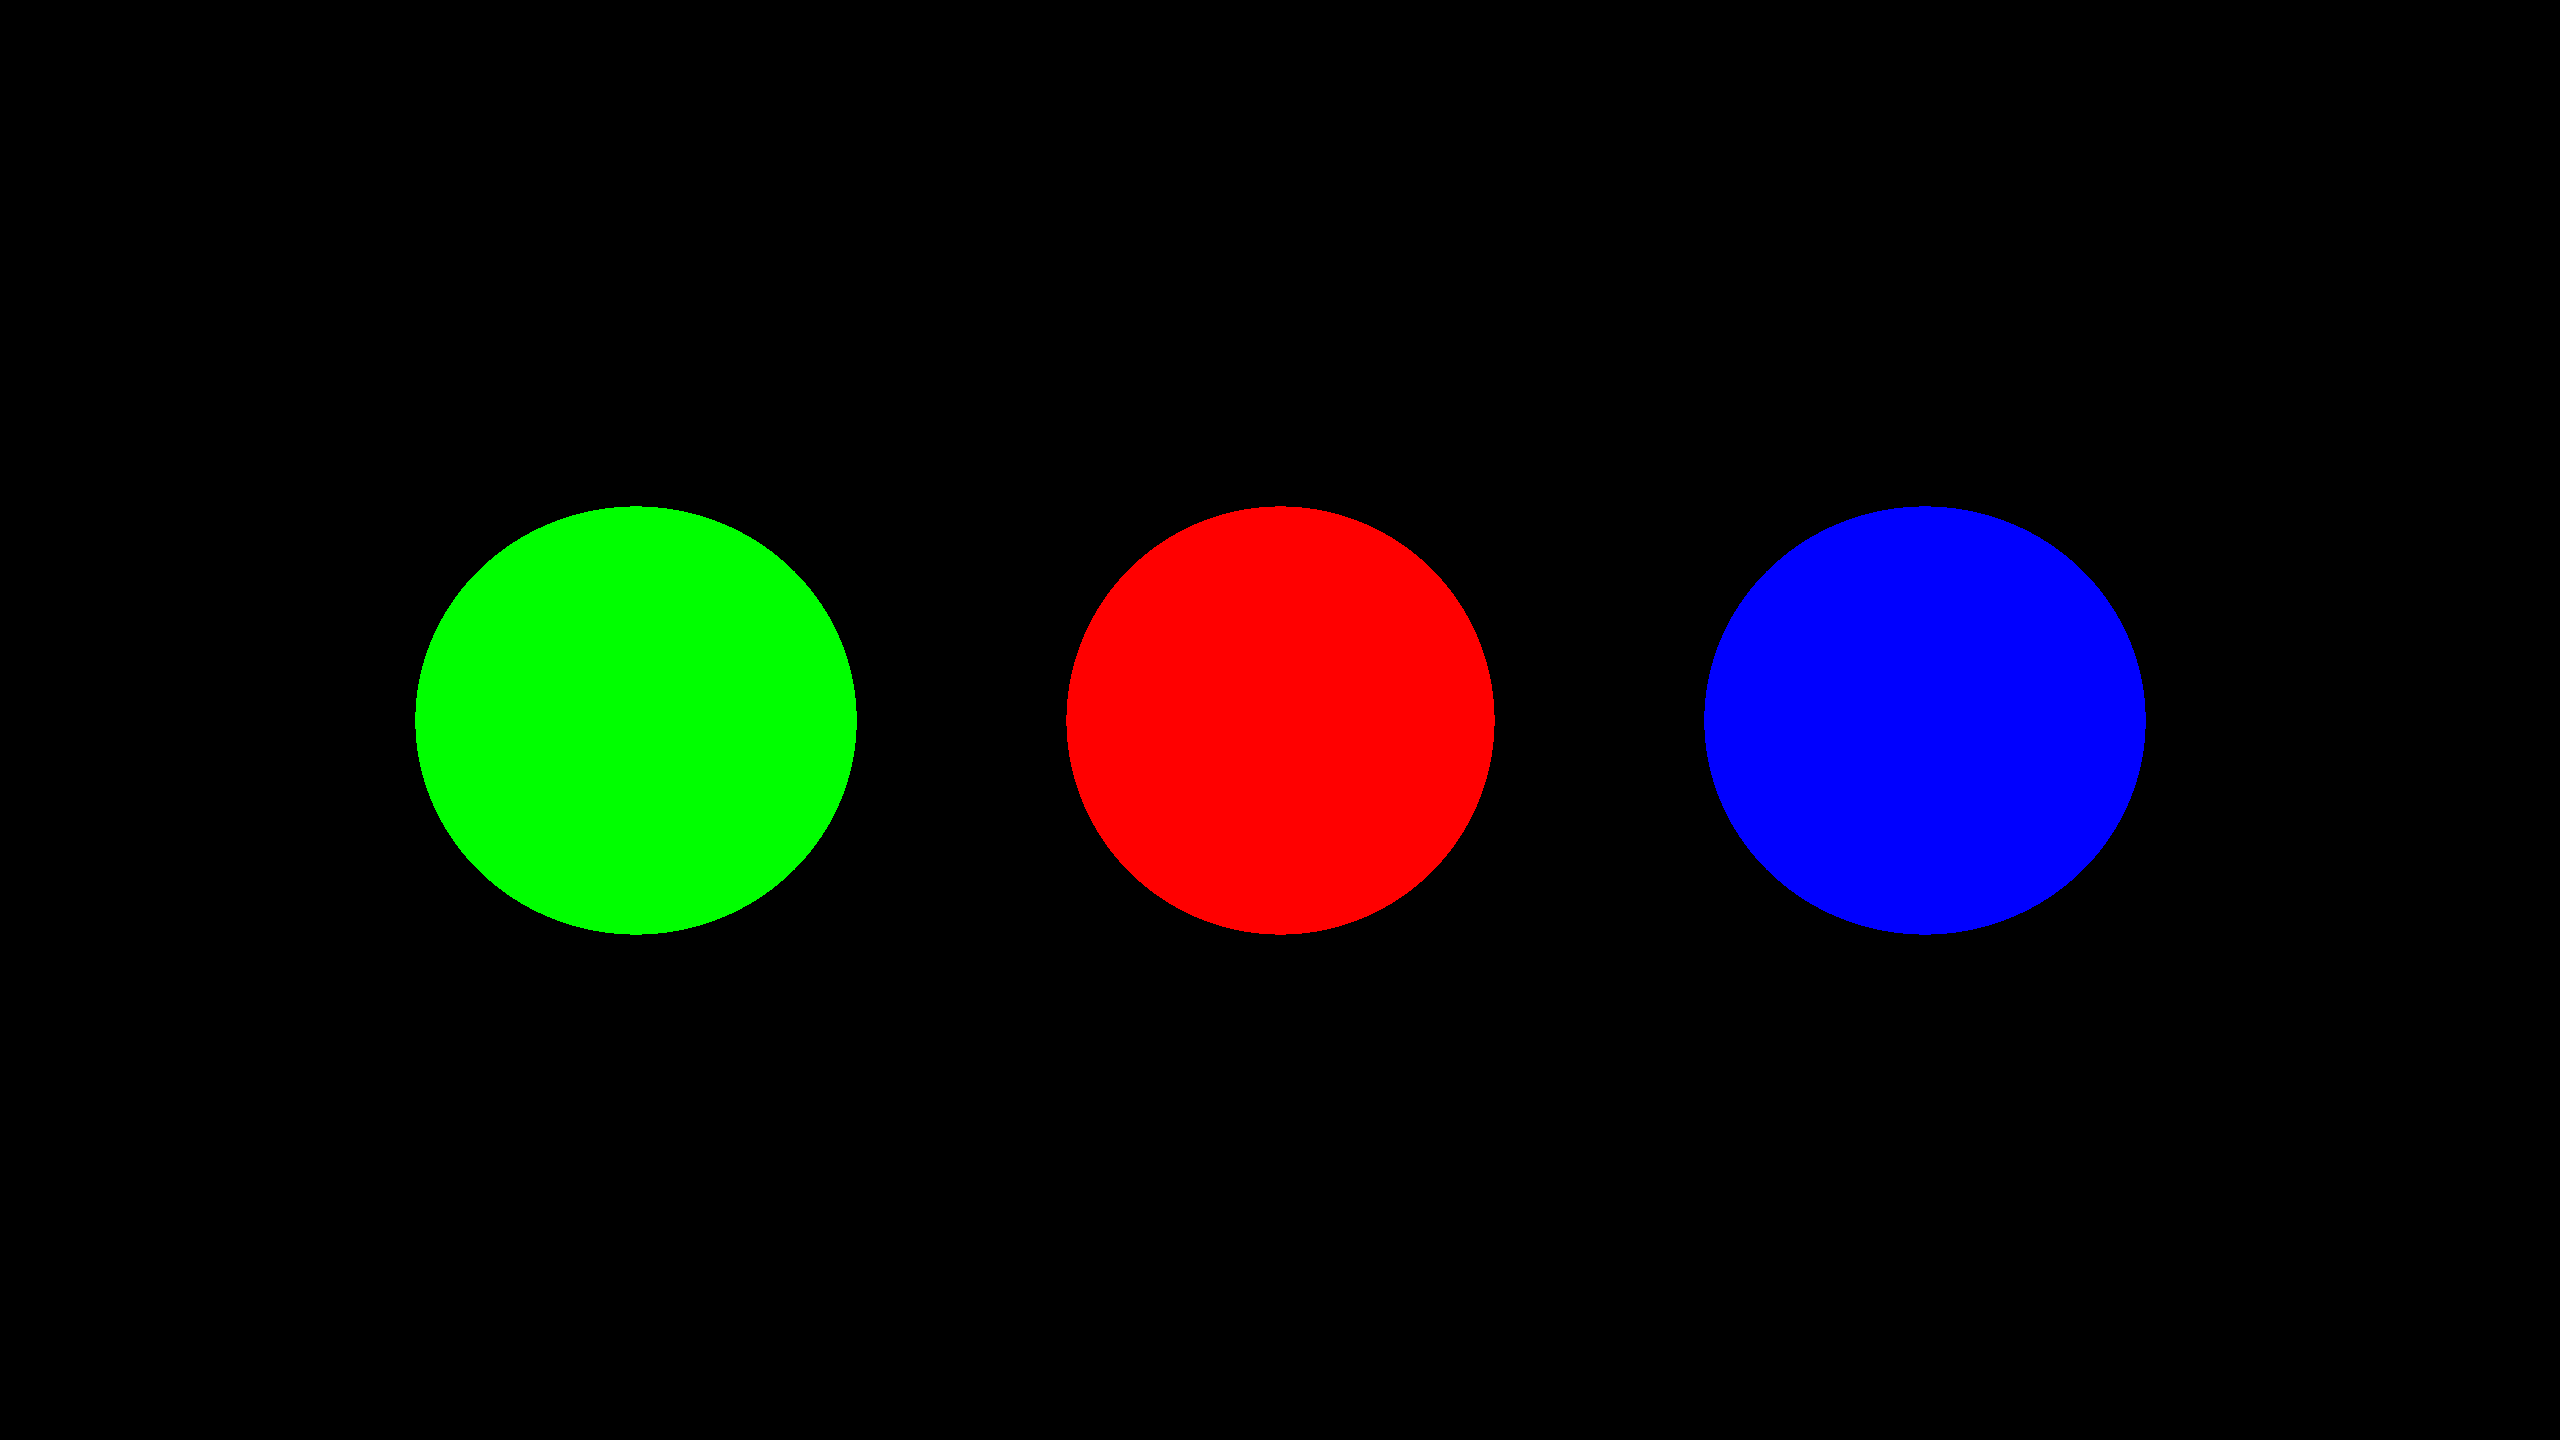
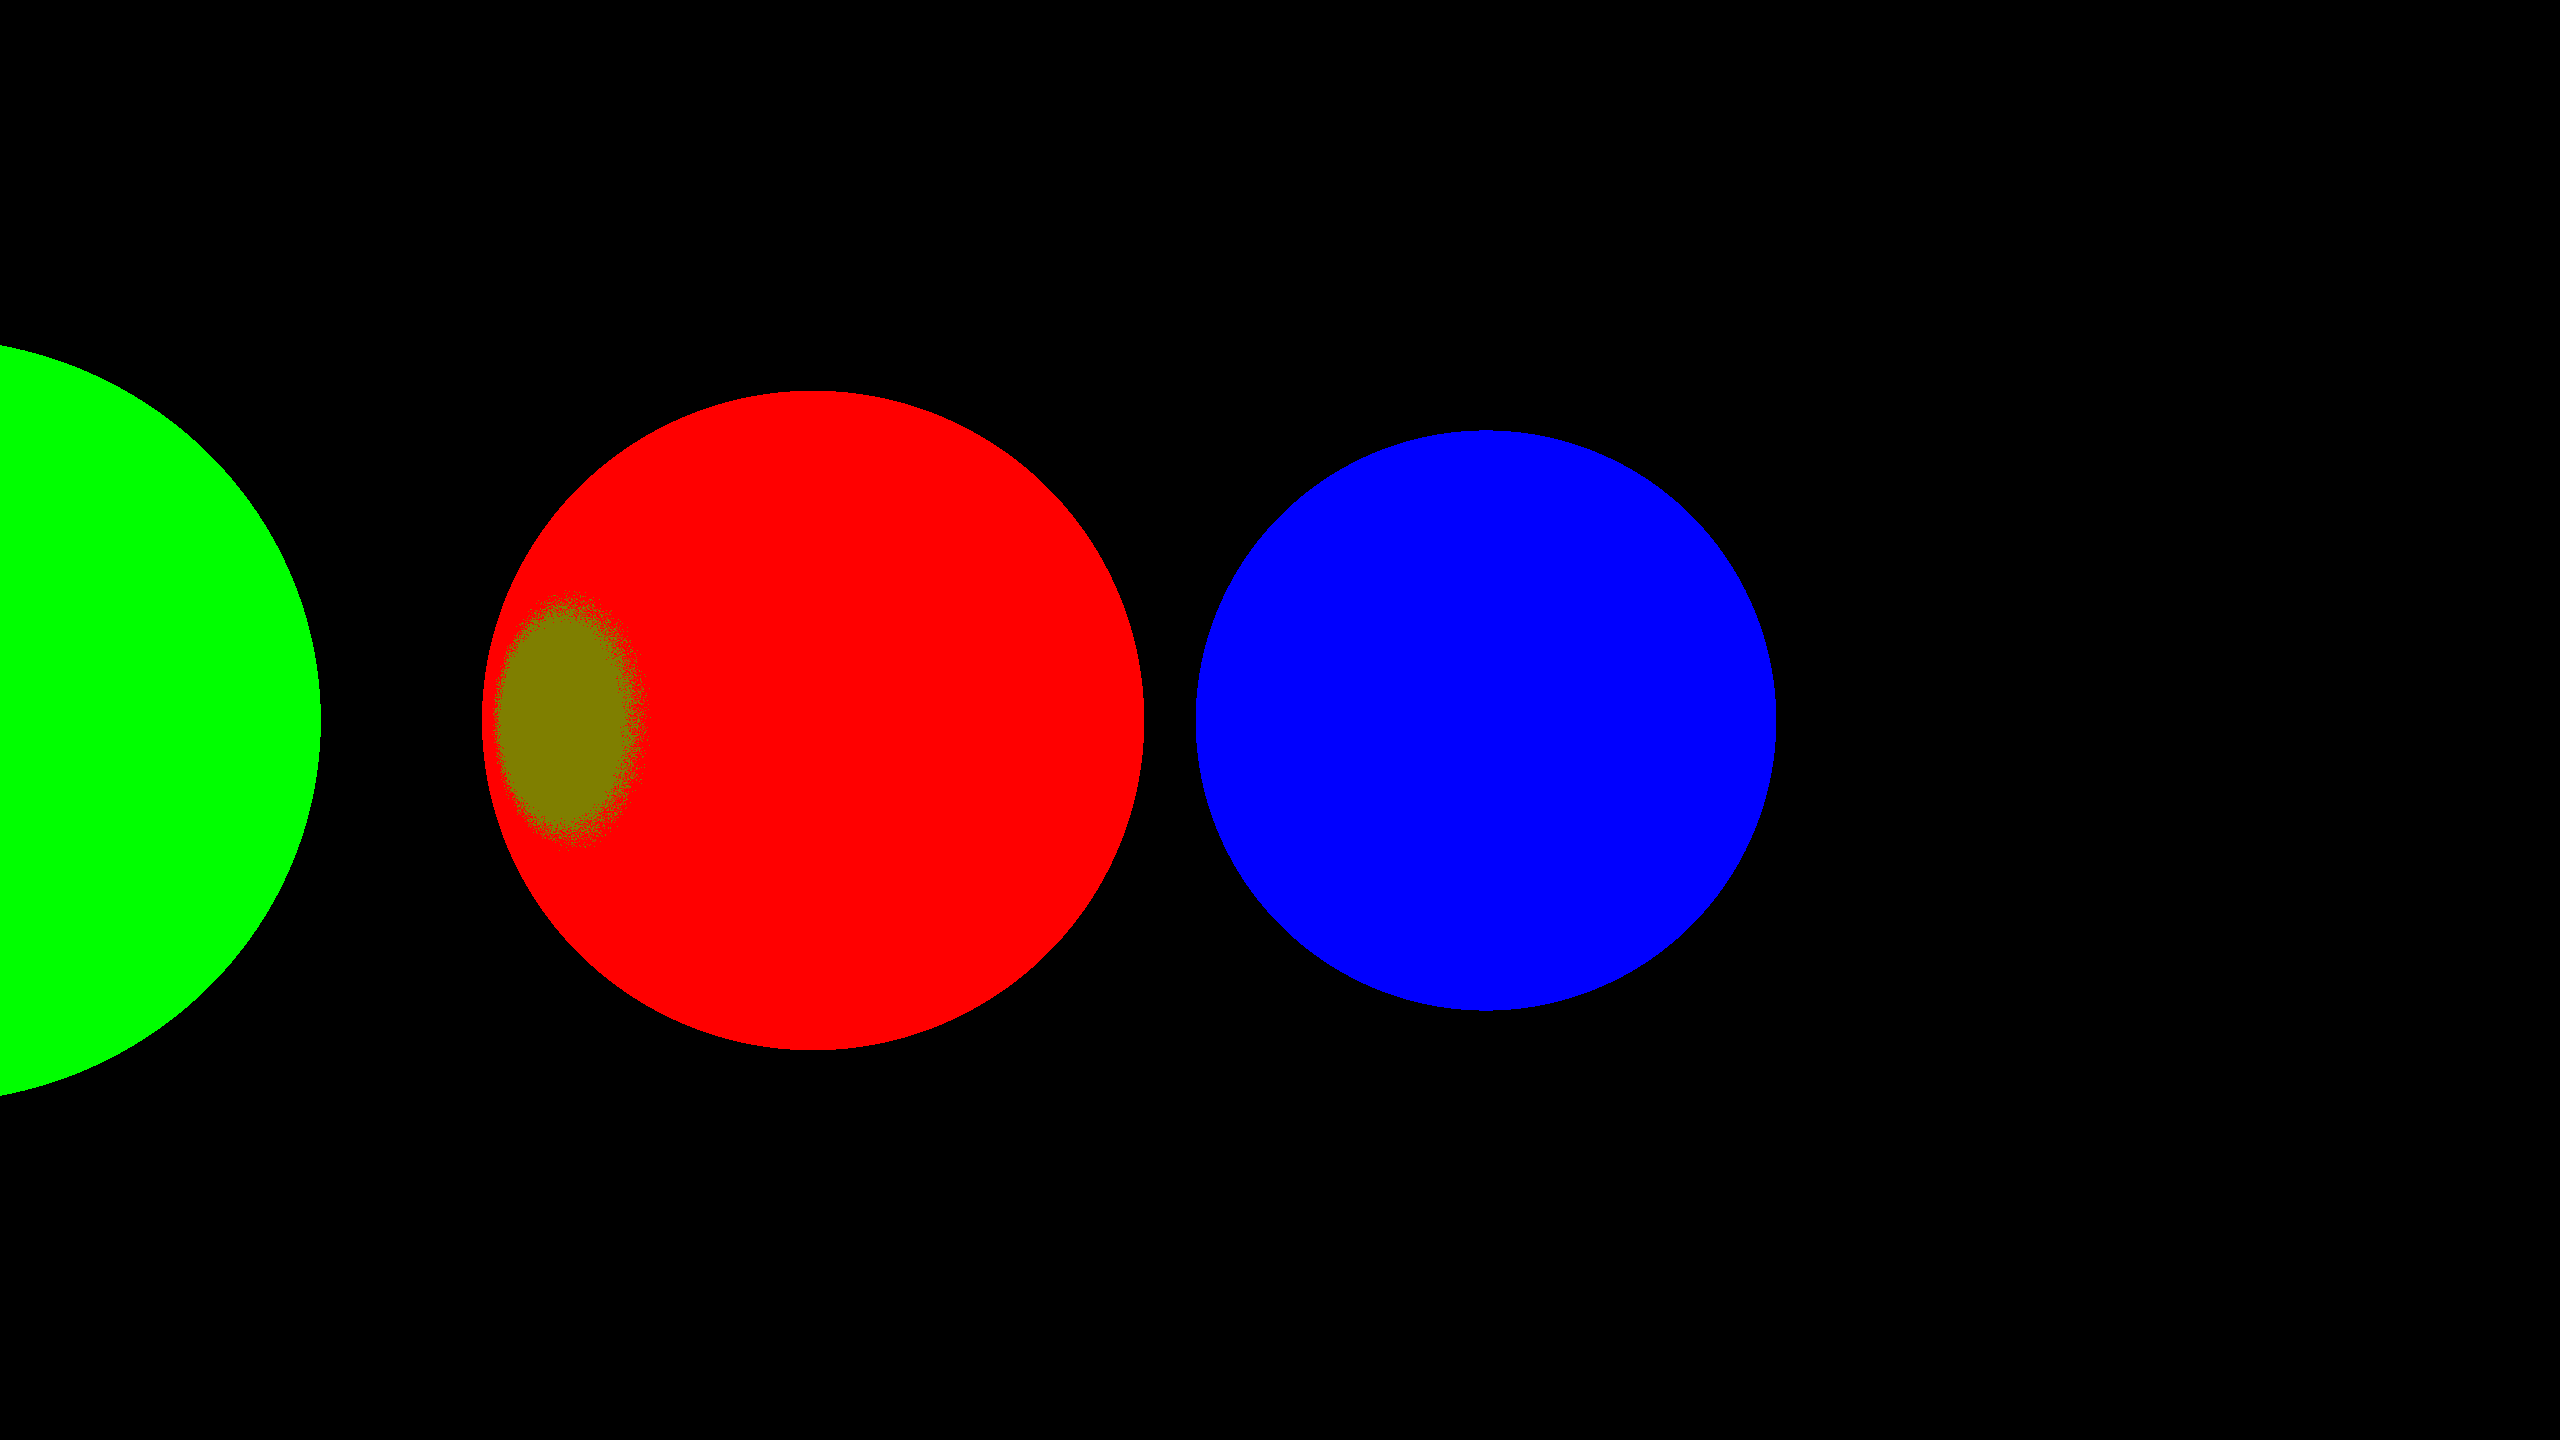
Diffuse material added and easy support for future materials

Changed region(s): [[0.1562, 0.25, 0.8438, 0.75], [0.0, 0.2188, 0.125, 0.7812]]

diff --git a/src/main.rs b/src/main.rs
@@ -3,7 +3,7 @@ use std::borrow::BorrowMut;
 use cgmath::{Vector3, InnerSpace, Rotation3, Rotation, Deg};
 use image::codecs::hdr::Rgbe8Pixel;
 use math::{Rect};
-use objects::{Hitable, Hitinfo, Ray, material::{Material, Diffuse}};
+use objects::{Hitable, Hitinfo, Ray, material::{Diffuse}, Material};
 
 mod objects;
 mod math;
@@ -12,13 +12,13 @@ fn main() {
     let size: Rect<u32> = Rect::new(0, 0, 2560, 1440);
 
     let camera = Camera::new(
-    Vector3::new(0.0,0.0,-120.0), 
-    Vector3::new(0.0,0.0,0.0), 
+    Vector3::new(-100.0,0.0,-120.0), 
+    Vector3::new(0.0,45.0,0.0), 
         90.0
     );
 
     let samples: u8 = 16;
-    let bounces: u8 = 1;
+    let bounces: u8 = 3;
 
     let mut scene: Vec<Box<dyn Hitable>> = Vec::new();
 
@@ -49,7 +49,7 @@ fn main() {
 
     let image = image::ImageBuffer::from_fn(size.width, size.height, move |x,y| {
 
-        let mut direction = Vector3::new(x as f64-(size.width as f64 /2.0),y as f64 - (size.height as f64/2.0), size.width as f64).normalize();
+        let mut direction = Vector3::new(x as f64-(size.width as f64 /2.0),y as f64 - (size.height as f64/2.0), size.width as f64 * 2.0).normalize();
         
         // Rotate direction 
         direction = camera.rotate_vec(direction);
@@ -70,8 +70,9 @@ fn main() {
                 //println!("{:?}", info.as_ref().unwrap().distance);
                 if info.as_ref().unwrap().distance >= nearest.as_ref().unwrap().distance {
                     nearest = Some(*info.as_ref().unwrap());
+                    let mat = info.as_ref().unwrap().material.calc_mat(info.as_ref().unwrap(), &scene, bounces);
                     let normal = nearest.unwrap().normal;
-                    pixel_color = nearest.unwrap().color;
+                    pixel_color = mat;
                     //pixel_color = image::Rgb([(255.0 - normal.x * 255.0) as u8, (255.0 - normal.y * 255.0) as u8, (255.0 - normal.z * 255.0) as u8]);
                 }
             }
@@ -118,10 +119,11 @@ impl Camera {
 // ----------
 
 trait Light {
-    fn is_illuminted(&self, position: &[f64; 3]);
+    fn is_illuminted(&self, ray: &Ray, scene: &Vec<Box<dyn Hitable>>);
 }
 
 // ----------
+
 
 struct Sphere {
     position: Vector3<f64>,
@@ -149,22 +151,13 @@ impl Hitable for Sphere {
 
         let root = (-half_b - discriminant.sqrt()) / a;
 
-        let mut info = Hitinfo {
+        Some(Hitinfo {
             position: ray.function(root),
             normal: (ray.function(root) - self.position) / self.radius,
             distance: root,
             color: self.color,
-            scene: Some(scene),
-        };
-        
-        let mat_info = self.material.as_ref().calc_mat(&info, scene, bounce_limit); // Implement this in the main Loop
-
-        Some(Hitinfo {
-            position: info.position,
-            normal: info.normal,
-            distance: info.distance,
-            color: if mat_info.is_none() {info.color} else { mat_info.as_ref().unwrap().color},
             scene: None,
+            material: &self.material,
         })
     }
 }

diff --git a/src/objects/material.rs b/src/objects/material.rs
@@ -1,11 +1,9 @@
 use cgmath::{Vector3, InnerSpace};
+use image::Rgb;
 
-use super::{Hitinfo, Hitable, Ray};
+use super::{Hitinfo, Hitable, Ray, Material};
 
-pub trait Material {
-    fn calc_mat(&self, info: &Hitinfo, scene: &Vec<Box<dyn Hitable>>, bounce_limit: u8) -> Option<Hitinfo>;
-}
-
+#[derive(Clone, Copy)]
 pub struct Diffuse {
 
 }
@@ -31,33 +29,45 @@ impl Diffuse {
 }
 
 impl Material for Diffuse {
-    fn calc_mat(&self, info: &Hitinfo, scene: &Vec<Box<dyn Hitable>>, bounce_limit: u8) -> Option<Hitinfo> {
+    fn calc_mat(&self, info: &Hitinfo, scene: &Vec<Box<dyn Hitable>>, bounce_limit: u8) -> Rgb<u8> {
         let target = info.position + info.normal + Diffuse::random_in_unit_sphere();
 
         let ray: Ray = Ray::new(info.position, target);
 
         let mut nearest: Option<Hitinfo> = None;
 
-        let mut pixel_color = image::Rgb([0,0,0]);
+        let mut pixel_color = image::Rgb([255,255,255]);
 
         // This causes an overflow!!!!
         for object in scene {
-            let info = object.hit(&ray, &scene, bounce_limit-1);
-            if info.is_some() {
+            let sec = object.hit(&ray, &scene, bounce_limit-1);
+            if sec.is_some() {
                 if nearest.is_none() {
-                    nearest = Some(*info.as_ref().unwrap())
+                    nearest = Some(*sec.as_ref().unwrap())
                 }
                 //println!("{:?}", info.as_ref().unwrap().distance);
-                if info.as_ref().unwrap().distance >= nearest.as_ref().unwrap().distance {
-                    nearest = Some(*info.as_ref().unwrap());
+                if sec.as_ref().unwrap().distance >= nearest.as_ref().unwrap().distance {
+                    nearest = Some(*sec.as_ref().unwrap());
                     let normal = nearest.unwrap().normal;
-                    pixel_color = nearest.unwrap().color;
+                    pixel_color = add_color_bias(info.color, nearest.unwrap().color, 0.5);
                     //pixel_color = image::Rgb([(255.0 - normal.x * 255.0) as u8, (255.0 - normal.y * 255.0) as u8, (255.0 - normal.z * 255.0) as u8]);
                 }
             }
             //println!("{}", *nearest < 1000.0);
         }
 
-        None
+        pixel_color
     }
+}
+
+pub fn add_color(c1: Rgb<u8>, c2: Rgb<u8>) -> Rgb<u8> {
+    Rgb([((c1[0] as u32 + c2[0] as u32) / 2) as u8,
+    ((c1[1] as u32 + c2[1] as u32) / 2) as u8,
+    ((c1[2] as u32 + c2[2] as u32) / 2) as u8])
+}
+
+pub fn add_color_bias(c1: Rgb<u8>, c2: Rgb<u8>, bias: f64) -> Rgb<u8> {
+    Rgb([((c1[0] as f64 * bias + c2[0] as f64 * (1.0 - bias))) as u8,
+    ((c1[1] as f64 * bias + c2[1] as f64 * (1.0 - bias))) as u8,
+    ((c1[2] as f64 * bias + c2[2] as f64 * (1.0 - bias))) as u8])
 }

diff --git a/src/objects/mod.rs b/src/objects/mod.rs
@@ -1,4 +1,5 @@
 use cgmath::{Vector3, InnerSpace};
+use image::Rgb;
 
 pub mod material;
 
@@ -20,15 +21,20 @@ impl Ray {
     }
 }
 
-#[derive(Clone, Copy)]
+#[derive(Copy, Clone)]
 pub struct Hitinfo<'a> {
     pub position: Vector3<f64>,
     pub normal: Vector3<f64>,
     pub distance: f64,
     pub color: image::Rgb<u8>,
     pub scene: Option<&'a Vec<Box<dyn Hitable>>>,
+    pub material: &'a Box<dyn Material>
 }
 
 pub trait Hitable {
     fn hit(&self, ray: &Ray, scene: &Vec<Box<dyn Hitable>>, bounce_limit: u8) -> Option<Hitinfo>;
+}
+
+pub trait Material {
+    fn calc_mat(&self, info: &Hitinfo, scene: &Vec<Box<dyn Hitable>>, bounce_limit: u8) -> Rgb<u8>;
 }
